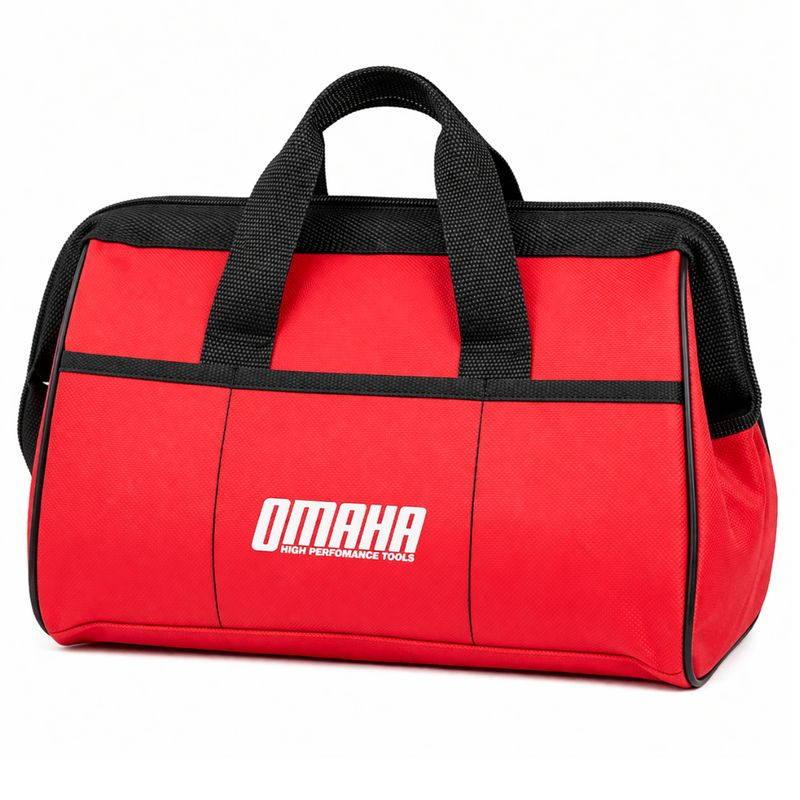
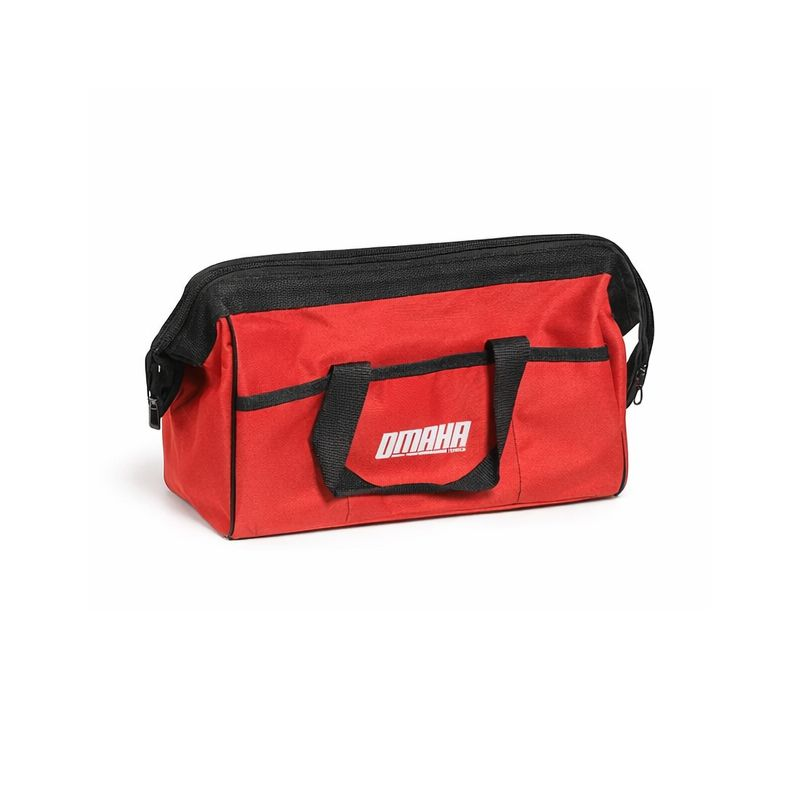
Add files via upload

diff --git a/imgs/optimizar_imagenes.py b/imgs/optimizar_imagenes.py
@@ -1,0 +1,95 @@
+"""
+OPTIMIZADOR DE IMÁGENES OMAHA
+==============================
+Convierte todas las imágenes de una carpeta a:
+  - 800x800px
+  - 72 DPI
+  - JPG calidad 80%
+  - Fondo blanco (para imágenes con transparencia)
+
+Uso:
+  python3 optimizar_imagenes.py
+
+Requiere:
+  pip3 install Pillow
+
+Resultado:
+  - Carpeta "optimizadas/" con todas las imágenes procesadas
+  - Los archivos originales no se modifican
+"""
+
+from PIL import Image
+from pathlib import Path
+import os
+
+CARPETA_ORIGEN  = "."          # carpeta actual
+CARPETA_DESTINO = "optimizadas"
+TAMAÑO          = (800, 800)
+DPI             = (72, 72)
+CALIDAD         = 80
+EXTENSIONES     = {'.jpg', '.jpeg', '.png', '.tif', '.tiff', '.bmp', '.webp'}
+
+
+def optimizar(path_origen, path_destino):
+    img = Image.open(path_origen)
+
+    # Convertir a RGB (por si tiene transparencia o es CMYK)
+    if img.mode in ('RGBA', 'LA', 'P'):
+        fondo = Image.new('RGB', img.size, (255, 255, 255))
+        if img.mode == 'P':
+            img = img.convert('RGBA')
+        fondo.paste(img, mask=img.split()[-1] if img.mode in ('RGBA', 'LA') else None)
+        img = fondo
+    elif img.mode != 'RGB':
+        img = img.convert('RGB')
+
+    # Redimensionar manteniendo proporción con padding blanco
+    img.thumbnail(TAMAÑO, Image.LANCZOS)
+    fondo = Image.new('RGB', TAMAÑO, (255, 255, 255))
+    offset = ((TAMAÑO[0] - img.width) // 2, (TAMAÑO[1] - img.height) // 2)
+    fondo.paste(img, offset)
+
+    # Guardar como JPG
+    fondo.save(path_destino, 'JPEG', quality=CALIDAD, dpi=DPI, optimize=True)
+
+
+def main():
+    origen  = Path(CARPETA_ORIGEN)
+    destino = Path(CARPETA_DESTINO)
+    destino.mkdir(exist_ok=True)
+
+    imagenes = [f for f in origen.iterdir()
+                if f.is_file() and f.suffix.lower() in EXTENSIONES]
+
+    if not imagenes:
+        print("No se encontraron imágenes en la carpeta.")
+        return
+
+    print(f"\nOptimizando {len(imagenes)} imágenes → {CARPETA_DESTINO}/")
+    print(f"Tamaño: {TAMAÑO[0]}x{TAMAÑO[1]}px | DPI: {DPI[0]} | Calidad: {CALIDAD}%\n")
+
+    ok = 0
+    errores = []
+
+    for img_path in sorted(imagenes):
+        # Nombre de salida siempre .jpg
+        nombre_salida = img_path.stem + '.jpg'
+        destino_path  = destino / nombre_salida
+
+        try:
+            optimizar(img_path, destino_path)
+            size_kb = destino_path.stat().st_size // 1024
+            print(f"  ✓  {img_path.name:<35} → {nombre_salida}  ({size_kb} KB)")
+            ok += 1
+        except Exception as e:
+            print(f"  ✗  {img_path.name:<35} ERROR: {e}")
+            errores.append(img_path.name)
+
+    print(f"\n  Procesadas: {ok}/{len(imagenes)}")
+    if errores:
+        print(f"  Errores: {', '.join(errores)}")
+    print(f"  Carpeta de salida: {destino.resolve()}\n")
+
+
+if __name__ == "__main__":
+    main()
